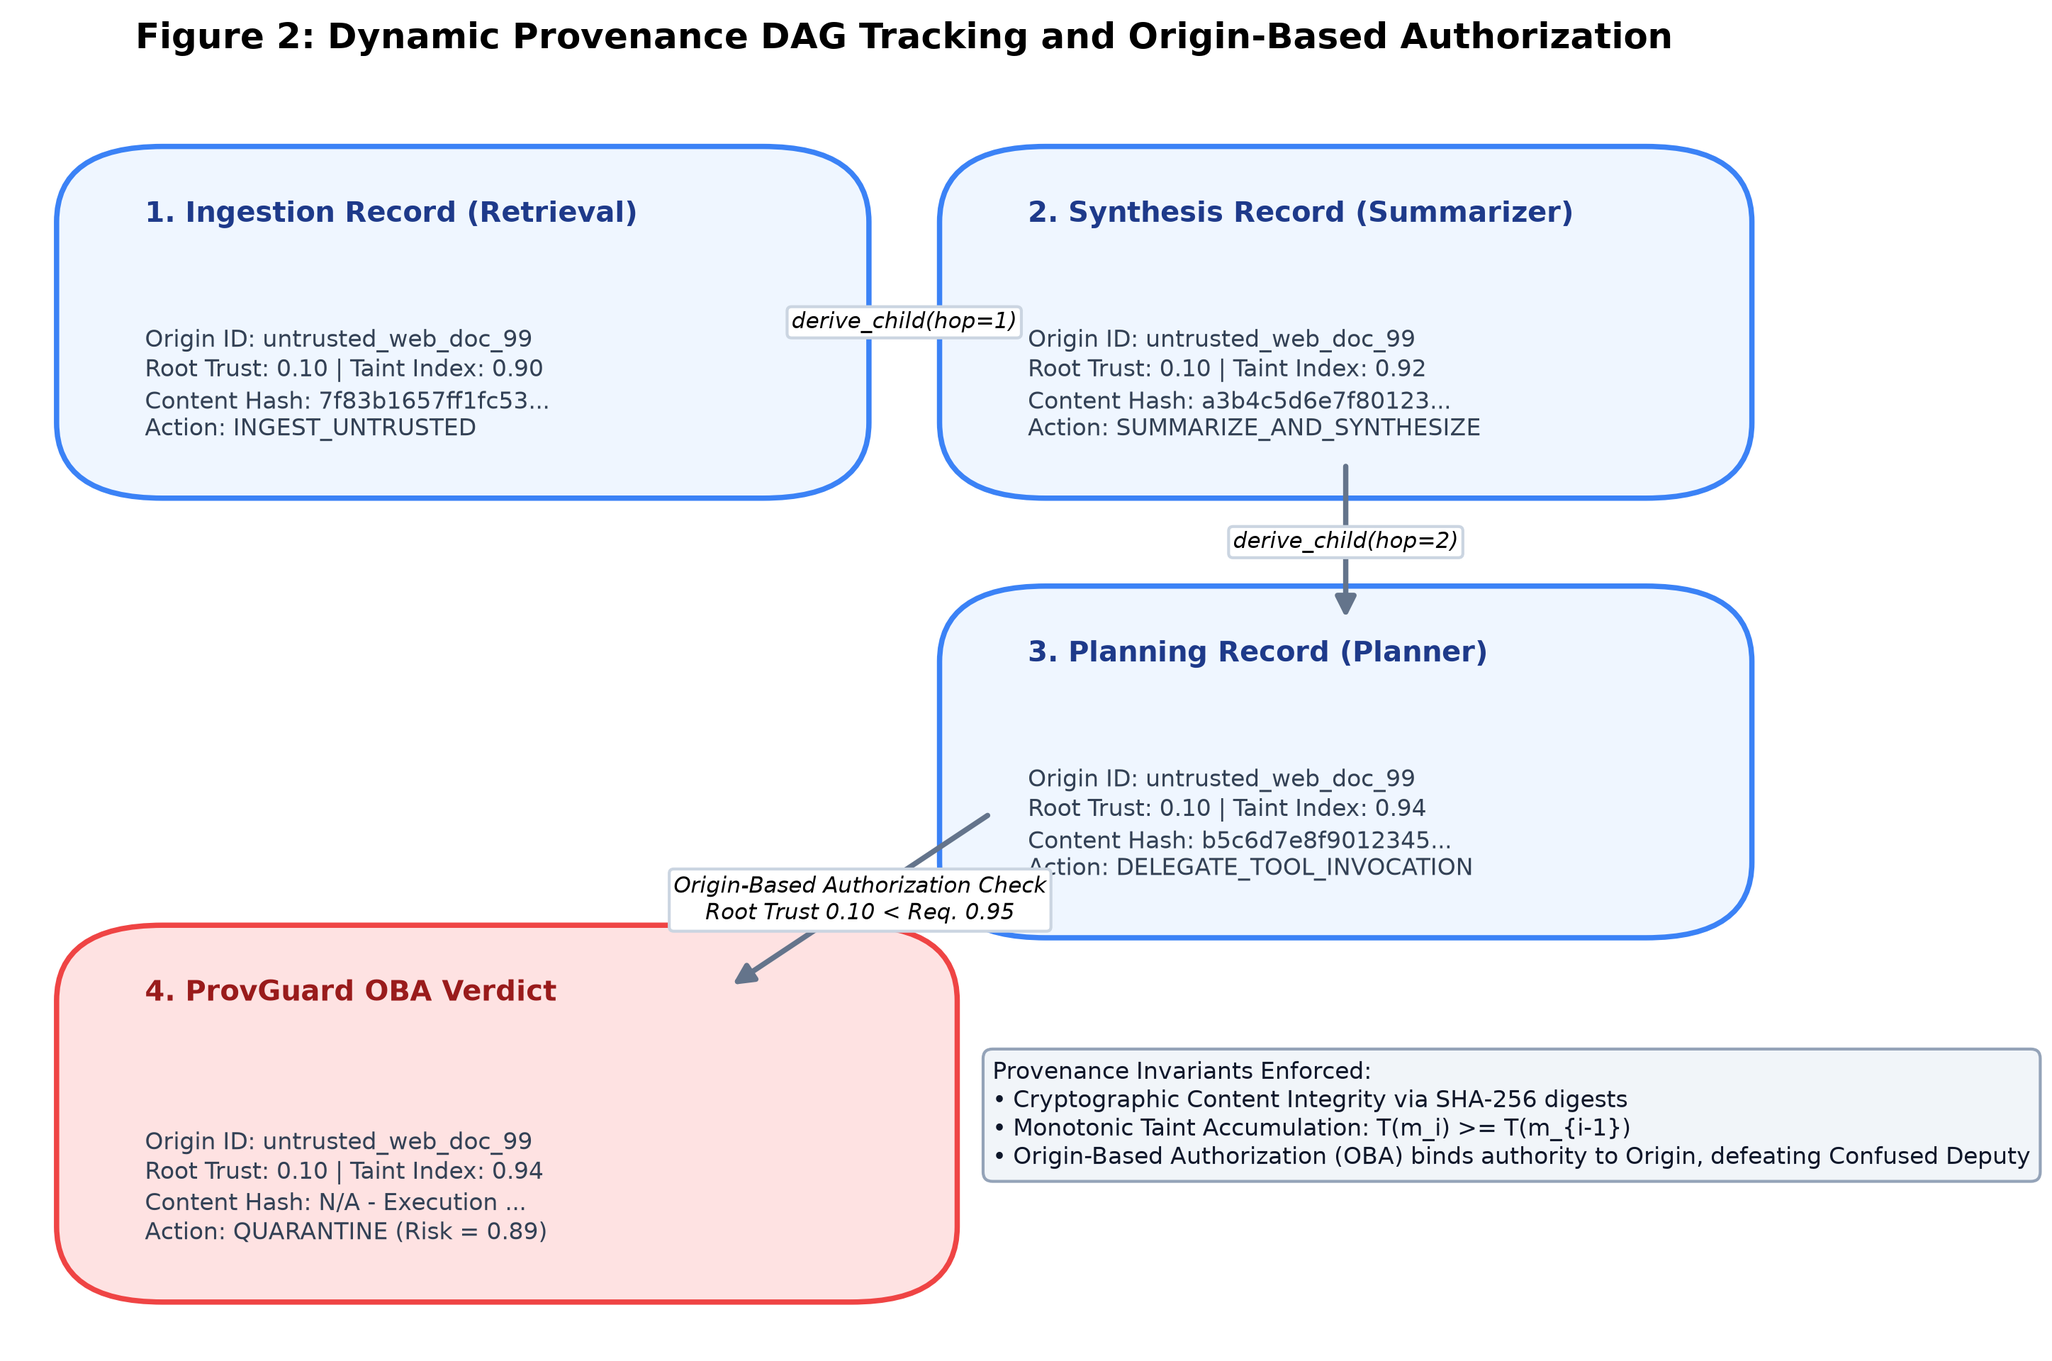
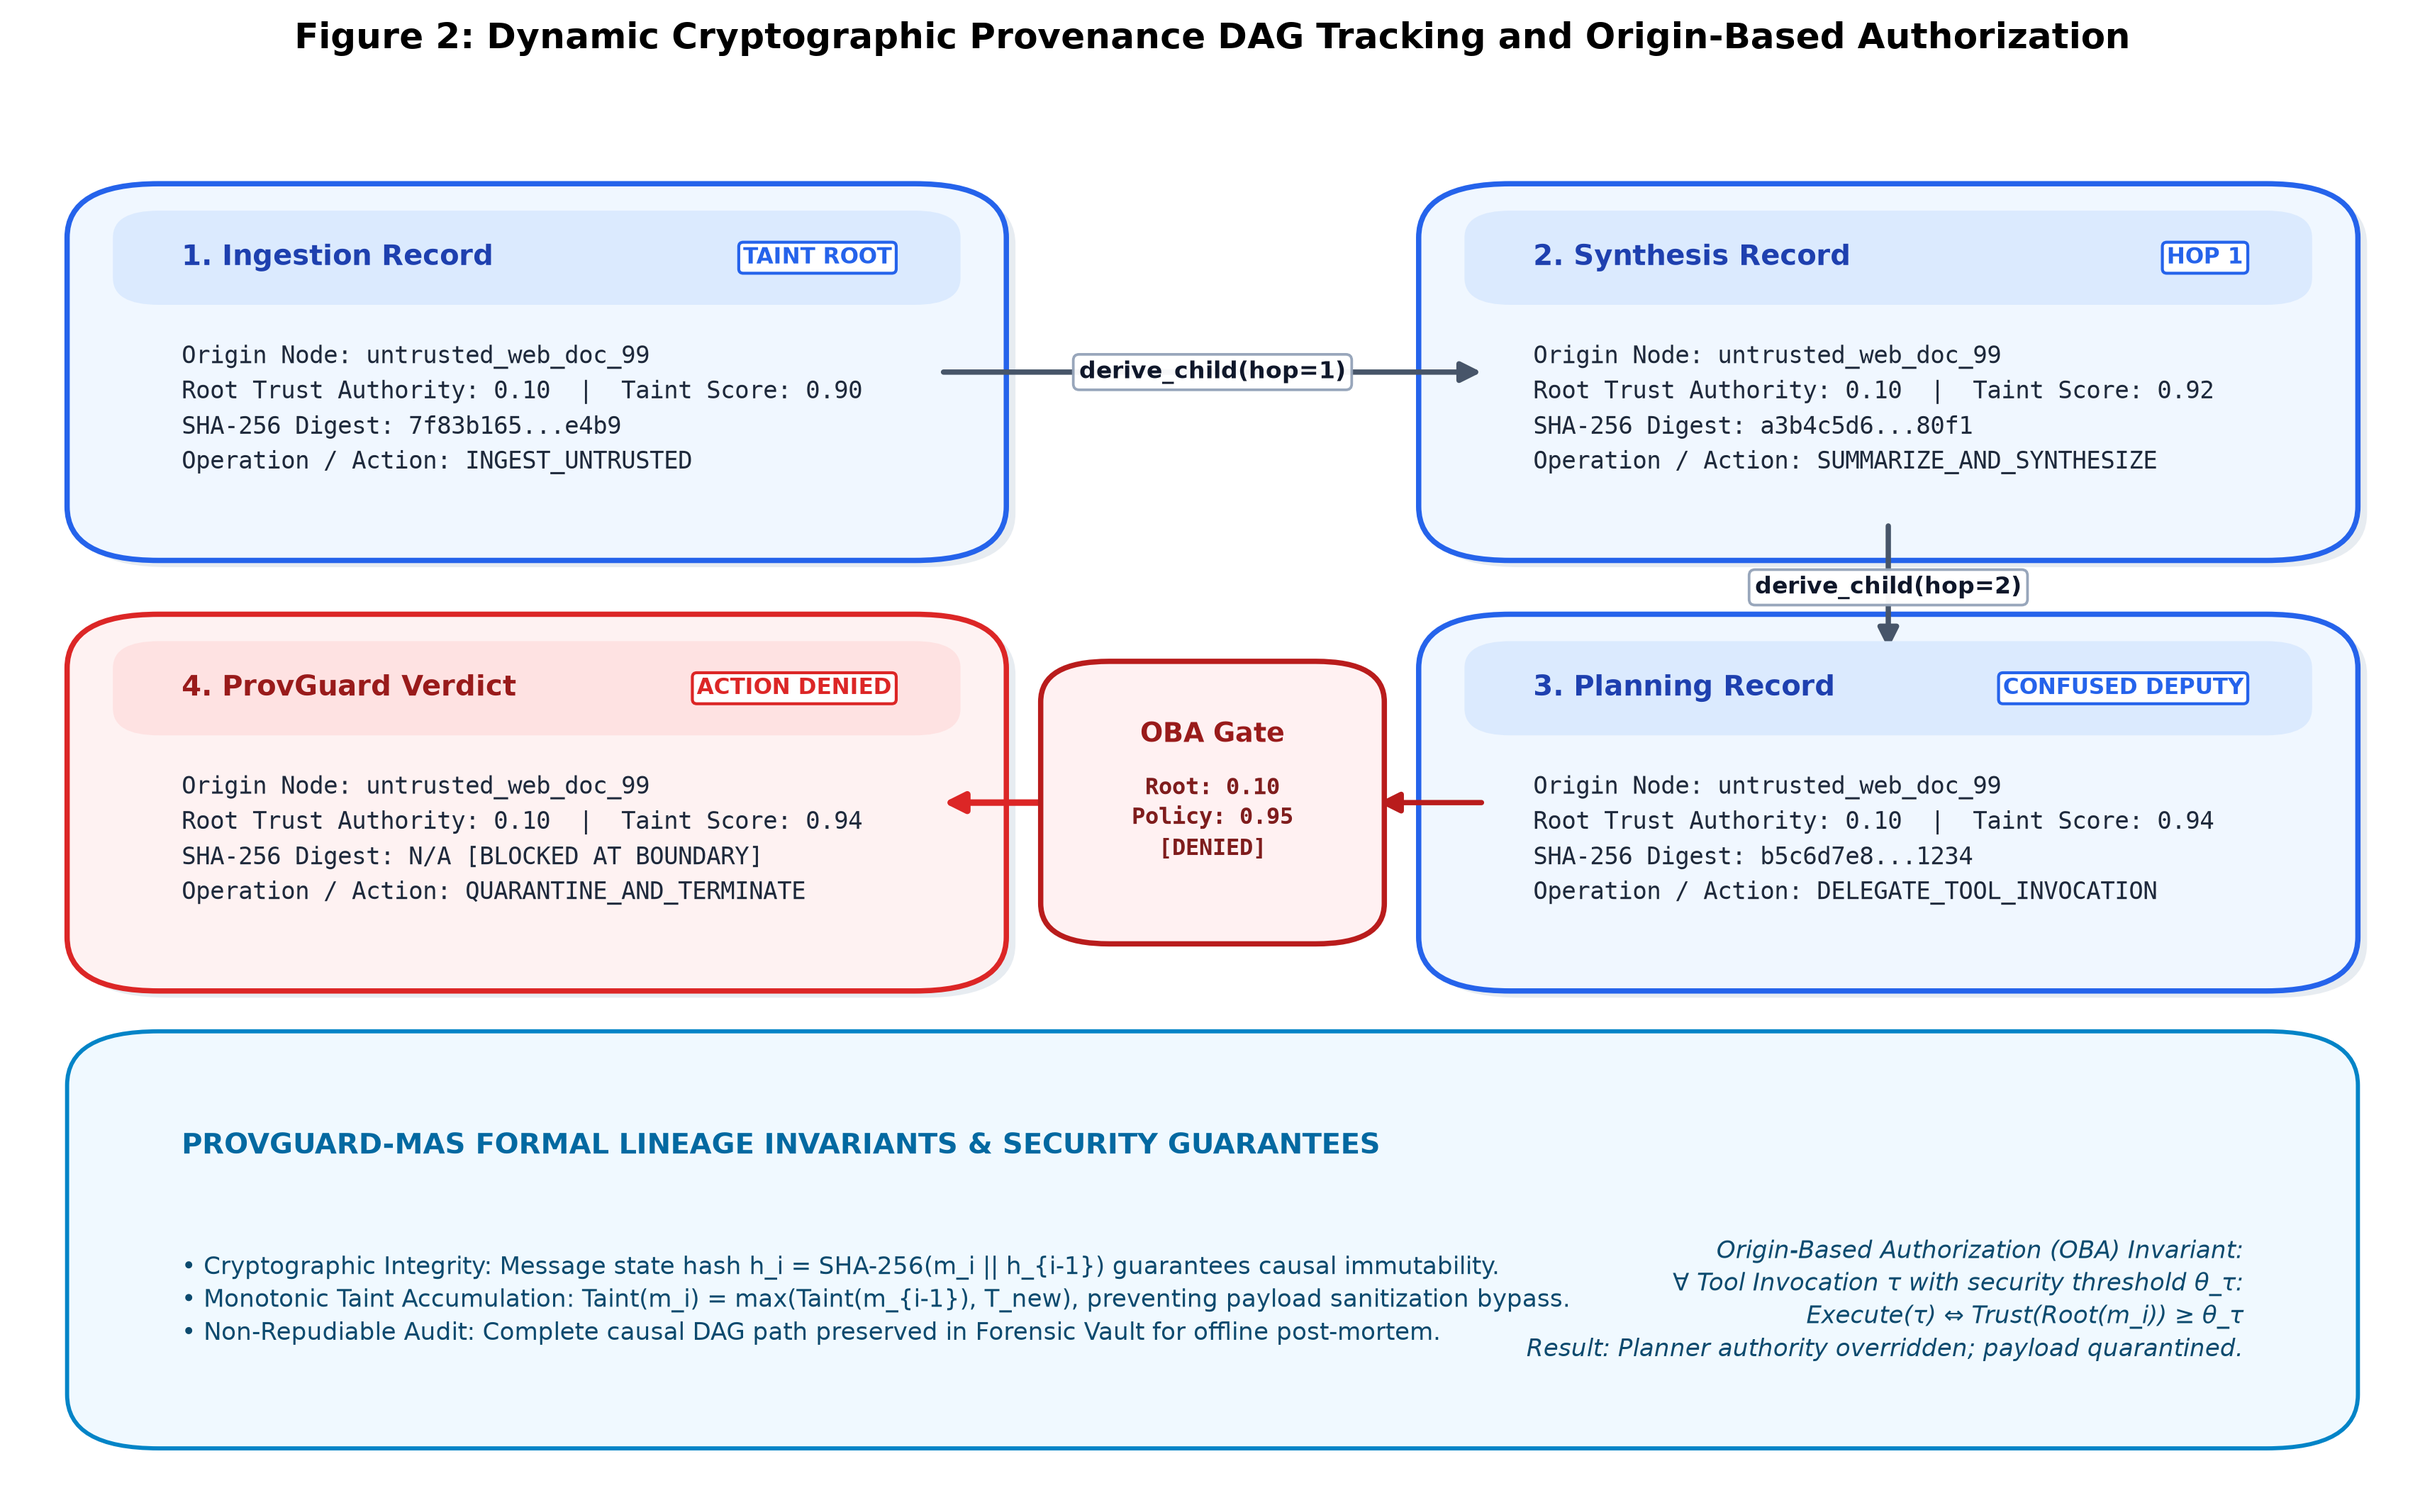
feat(figures): polish Figure 2 provenance DAG diagram with dedicated OBA Gatekeeper and crisp layout

diff --git a/experiments/generate_figures.py b/experiments/generate_figures.py
@@ -155,62 +155,153 @@ def generate_figure_1_architecture(output_dir: str):
 
 def generate_figure_2_provenance_dag(output_dir: str):
     """Figure 2: Cryptographic Provenance DAG Lineage Tree."""
-    fig, ax = plt.subplots(figsize=(10, 6.5))
+    fig, ax = plt.subplots(figsize=(11.5, 7.2))
     ax.axis("off")
+    ax.set_xlim(-0.02, 1.02)
+    ax.set_ylim(-0.02, 1.02)
 
-    def draw_record(x, y, w, h, role, origin, trust, taint, action, hash_val, is_blocked=False):
-        ec = "#ef4444" if is_blocked else "#3b82f6"
-        fc = "#fee2e2" if is_blocked else "#eff6ff"
+    def draw_record(x, y, w, h, role, origin, trust, taint, action, hash_val, is_blocked=False, badge=""):
+        ec = "#dc2626" if is_blocked else "#2563eb"
+        fc = "#fef2f2" if is_blocked else "#f0f7ff"
+        header_c = "#991b1b" if is_blocked else "#1e40af"
+
+        # Shadow
+        shadow = patches.FancyBboxPatch(
+            (x + 0.004, y - 0.005), w, h,
+            boxstyle="round,pad=0.03,rounding_size=0.04",
+            linewidth=0, facecolor="#cbd5e1", alpha=0.45, zorder=2
+        )
+        ax.add_patch(shadow)
+
+        # Card container
         rect = patches.FancyBboxPatch(
             (x, y), w, h,
-            boxstyle="round,pad=0.03,rounding_size=0.06",
-            linewidth=1.8, edgecolor=ec, facecolor=fc
+            boxstyle="round,pad=0.03,rounding_size=0.04",
+            linewidth=1.8, edgecolor=ec, facecolor=fc, zorder=3
         )
         ax.add_patch(rect)
-        ax.text(x + 0.02, y + h - 0.03, f"{role}", fontweight="bold", fontsize=9.5, color="#1e3a8a" if not is_blocked else "#991b1b")
-        info = (
-            f"Origin ID: {origin}\n"
-            f"Root Trust: {trust:.2f} | Taint Index: {taint:.2f}\n"
-            f"Content Hash: {hash_val[:16]}...\n"
-            f"Action: {action}"
-        )
-        ax.text(x + 0.02, y + 0.02, info, fontsize=8, color="#334155", linespacing=1.25)
 
-    def draw_link(x1, y1, x2, y2, label=""):
+        # Header bar
+        header_rect = patches.FancyBboxPatch(
+            (x, y + h - 0.05), w, 0.05,
+            boxstyle="round,pad=0.01,rounding_size=0.02",
+            linewidth=0, facecolor="#fee2e2" if is_blocked else "#dbeafe", zorder=4
+        )
+        ax.add_patch(header_rect)
+        ax.text(x + 0.02, y + h - 0.025, f"{role}", fontweight="bold", fontsize=9.5, 
+                color=header_c, va="center", zorder=5)
+
+        if badge:
+            badge_bbox = dict(boxstyle="round,pad=0.2", facecolor="white", edgecolor=ec, lw=1.0)
+            ax.text(x + w - 0.02, y + h - 0.025, badge, fontweight="bold", fontsize=7.5,
+                    color=ec, ha="right", va="center", bbox=badge_bbox, zorder=5)
+
+        info = (
+            f"Origin Node: {origin}\n"
+            f"Root Trust Authority: {trust:.2f}  |  Taint Score: {taint:.2f}\n"
+            f"SHA-256 Digest: {hash_val}\n"
+            f"Operation / Action: {action}"
+        )
+        ax.text(x + 0.02, y + 0.03, info, fontsize=8.2, color="#1e293b", 
+                linespacing=1.45, family="monospace", va="bottom", zorder=5)
+
+    def draw_link(x1, y1, x2, y2, label="", color="#475569", lw=1.8):
         ax.annotate(
             "", xy=(x2, y2), xytext=(x1, y1),
-            arrowprops=dict(arrowstyle="-|>", color="#64748b", lw=1.8, mutation_scale=14)
+            arrowprops=dict(arrowstyle="-|>", color=color, lw=lw, mutation_scale=14),
+            zorder=3
         )
         if label:
-            mx, my = (x1 + x2)/2, (y1 + y2)/2
-            ax.text(mx, my, label, fontsize=7.5, style="italic", ha="center", va="center",
-                    bbox=dict(boxstyle="round,pad=0.2", facecolor="white", edgecolor="#cbd5e1"))
+            mx, my = (x1 + x2) / 2, (y1 + y2) / 2
+            ax.text(mx, my, label, fontsize=8, ha="center", va="center", color="#0f172a",
+                    fontweight="bold", bbox=dict(boxstyle="round,pad=0.25", facecolor="white", 
+                                                edgecolor="#94a3b8", alpha=0.96, lw=0.9), zorder=6)
 
-    # Records in causal lineage
-    draw_record(0.05, 0.70, 0.40, 0.22, "1. Ingestion Record (Retrieval)", "untrusted_web_doc_99", 0.10, 0.90, "INGEST_UNTRUSTED", "7f83b1657ff1fc53")
-    draw_record(0.55, 0.70, 0.40, 0.22, "2. Synthesis Record (Summarizer)", "untrusted_web_doc_99", 0.10, 0.92, "SUMMARIZE_AND_SYNTHESIZE", "a3b4c5d6e7f80123")
-    draw_record(0.55, 0.35, 0.40, 0.22, "3. Planning Record (Planner)", "untrusted_web_doc_99", 0.10, 0.94, "DELEGATE_TOOL_INVOCATION", "b5c6d7e8f9012345")
-    draw_record(0.05, 0.06, 0.45, 0.24, "4. ProvGuard OBA Verdict", "untrusted_web_doc_99", 0.10, 0.94, "QUARANTINE (Risk = 0.89)", "N/A - Execution Denied", is_blocked=True)
+    # 1. Lineage DAG Records (2-Column Grid with generous 0.24 central gap)
+    w_card = 0.35
+    x_left = 0.03
+    x_right = 0.62
 
-    # Connections
-    draw_link(0.45, 0.81, 0.55, 0.81, "derive_child(hop=1)")
-    draw_link(0.75, 0.70, 0.75, 0.57, "derive_child(hop=2)")
-    draw_link(0.55, 0.42, 0.40, 0.28, "Origin-Based Authorization Check\nRoot Trust 0.10 < Req. 0.95")
+    # Hop 0: Untrusted Ingestion (Top Left)
+    draw_record(x_left, 0.70, w_card, 0.22, "1. Ingestion Record", 
+                "untrusted_web_doc_99", 0.10, 0.90, "INGEST_UNTRUSTED", "7f83b165...e4b9", 
+                badge="TAINT ROOT")
 
-    # Legend / Annotation Box
-    ann = (
-        "Provenance Invariants Enforced:\n"
-        "• Cryptographic Content Integrity via SHA-256 digests\n"
-        "• Monotonic Taint Accumulation: T(m_i) >= T(m_{i-1})\n"
-        "• Origin-Based Authorization (OBA) binds authority to Origin, defeating Confused Deputy"
+    # Hop 1: Synthesis (Top Right)
+    draw_record(x_right, 0.70, w_card, 0.22, "2. Synthesis Record", 
+                "untrusted_web_doc_99", 0.10, 0.92, "SUMMARIZE_AND_SYNTHESIZE", "a3b4c5d6...80f1",
+                badge="HOP 1")
+
+    # Hop 2: Delegated privileged tool call (Bottom Right)
+    draw_record(x_right, 0.38, w_card, 0.22, "3. Planning Record", 
+                "untrusted_web_doc_99", 0.10, 0.94, "DELEGATE_TOOL_INVOCATION", "b5c6d7e8...1234",
+                badge="CONFUSED DEPUTY")
+
+    # Hop 3: ProvGuard Interception & Containment (Bottom Left)
+    draw_record(x_left, 0.38, w_card, 0.22, "4. ProvGuard Verdict", 
+                "untrusted_web_doc_99", 0.10, 0.94, "QUARANTINE_AND_TERMINATE", "N/A [BLOCKED AT BOUNDARY]", 
+                is_blocked=True, badge="ACTION DENIED")
+
+    # 2. Directed Edges & Interception Gate
+    # Edge 1 -> 2
+    draw_link(x_left + w_card, 0.81, x_right, 0.81, "derive_child(hop=1)")
+    
+    # Edge 2 -> 3 (Vertical)
+    draw_link(x_right + w_card / 2, 0.70, x_right + w_card / 2, 0.60, "derive_child(hop=2)")
+
+    # Central OBA Verification Gate in the middle gap
+    gate_x = 0.44
+    gate_y = 0.40
+    gate_w = 0.12
+    gate_h = 0.18
+    gate_rect = patches.FancyBboxPatch(
+        (gate_x, gate_y), gate_w, gate_h,
+        boxstyle="round,pad=0.015,rounding_size=0.03",
+        linewidth=1.8, edgecolor="#b91c1c", facecolor="#fff1f2", zorder=4
     )
-    ax.text(0.55, 0.14, ann, fontsize=8, color="#0f172a",
-            bbox=dict(boxstyle="round,pad=0.4", facecolor="#f1f5f9", edgecolor="#94a3b8"))
+    ax.add_patch(gate_rect)
+    ax.text(gate_x + gate_w / 2, gate_y + gate_h * 0.78, "OBA Gate", 
+            fontweight="bold", fontsize=9.0, color="#991b1b", ha="center", va="center", zorder=5)
+    ax.text(gate_x + gate_w / 2, gate_y + gate_h * 0.44, "Root: 0.10\nPolicy: 0.95\n[DENIED]", 
+            fontweight="bold", fontsize=7.8, color="#7f1d1d", ha="center", va="center", family="monospace", linespacing=1.35, zorder=5)
 
-    ax.set_title("Figure 2: Dynamic Provenance DAG Tracking and Origin-Based Authorization", pad=12, fontweight="bold")
+    # Directed Links through OBA Gate (Node 3 -> Gate -> Node 4)
+    draw_link(x_right, 0.49, gate_x + gate_w + 0.01, 0.49, color="#b91c1c", lw=1.8)
+    draw_link(gate_x - 0.01, 0.49, x_left + w_card, 0.49, color="#dc2626", lw=2.2)
+
+    # 3. Provenance Guarantees & Formal Invariants Panel
+    panel_rect = patches.FancyBboxPatch(
+        (0.03, 0.04), 0.94, 0.25,
+        boxstyle="round,pad=0.03,rounding_size=0.04",
+        linewidth=1.4, edgecolor="#0284c7", facecolor="#f0f9ff", zorder=3
+    )
+    ax.add_patch(panel_rect)
+
+    ax.text(0.05, 0.245, "PROVGUARD-MAS FORMAL LINEAGE INVARIANTS & SECURITY GUARANTEES", 
+            fontweight="bold", fontsize=9.5, color="#0369a1", va="top", zorder=4)
+
+    col1 = (
+        "• Cryptographic Integrity: Message state hash h_i = SHA-256(m_i || h_{i-1}) guarantees causal immutability.\n"
+        "• Monotonic Taint Accumulation: Taint(m_i) = max(Taint(m_{i-1}), T_new), preventing payload sanitization bypass.\n"
+        "• Non-Repudiable Audit: Complete causal DAG path preserved in Forensic Vault for offline post-mortem."
+    )
+    ax.text(0.05, 0.12, col1, fontsize=8.2, color="#0c4a6e", linespacing=1.35, va="center", zorder=4)
+
+    col2 = (
+        "Origin-Based Authorization (OBA) Invariant:\n"
+        "∀ Tool Invocation τ with security threshold θ_τ:\n"
+        "Execute(τ) ⇔ Trust(Root(m_i)) ≥ θ_τ\n"
+        "Result: Planner authority overridden; payload quarantined."
+    )
+    ax.text(0.95, 0.12, col2, fontsize=8.2, color="#0c4a6e", linespacing=1.35, 
+            va="center", ha="right", style="italic", zorder=4)
+
+    ax.set_title("Figure 2: Dynamic Cryptographic Provenance DAG Tracking and Origin-Based Authorization", 
+                 pad=14, fontweight="bold", fontsize=12)
+
     plt.tight_layout()
     out_path = os.path.join(output_dir, "figure_2_provenance_dag_lineage.png")
-    plt.savefig(out_path)
+    plt.savefig(out_path, dpi=300)
     plt.close()
     print(f"[✓] Generated: {out_path}")
 
